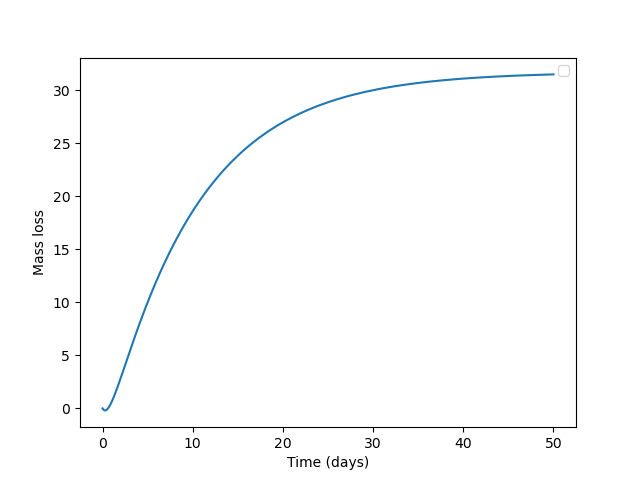
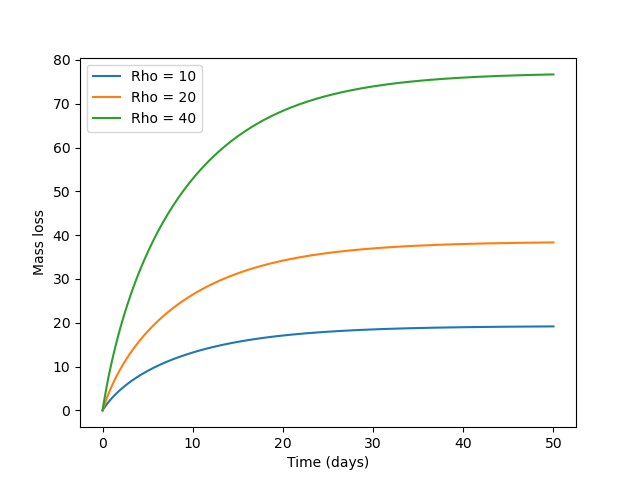
final

diff --git a/partC/partC3D.py b/partC/partC3D.py
@@ -3,19 +3,18 @@ set_log_active(False)
 import numpy as np
 import matplotlib.pyplot as plt
 
-mesh=Mesh("3dmesh/sphere2.xml")
+mesh=Mesh("3dmesh/sphere1.xml")
 V = FunctionSpace(mesh,"CG",1)
 
 #Data
-T = 20
+T = 50
 h = mesh.hmin()
 dt = h
-dts = np.linspace(0,T,int(np.round(T/dt,0))+1)
+dts = np.linspace(0,T,int(np.round(T/dt,0))+2)
 alpha = 0.01
-R = 0.445
-r = 0.12677
+R = 0.5
+r = 0.2
 rho = [10, 20, 40]
-rho = 32.6
 
 # Mass loss figure
 fig, ax = plt.subplots(1,1)
@@ -29,10 +28,10 @@ class DirichletBoundary(SubDomain):
 g = Constant(0.0)
 bc = DirichletBC(V,g,DirichletBoundary())
 
-for j in range(1): #range(len(rho)):
+for j in range(len(rho)):
 
 	#Initial condition
-	indata = Expression("pow((R-sqrt(pow(x[0],2)+pow(x[1],2))),2)+pow(x[2],2) <= r ? rho :0", rho=rho, R=R, r=r, degree=3)
+	indata = Expression("pow((R-sqrt(pow(x[0],2)+pow(x[1],2))),2)+pow(x[2],2) <= r ? rho :0", rho=rho[j], R=R, r=r, degree=3)
 	u0 = Function(V)
 	u0 = interpolate(indata,V)
 
@@ -51,7 +50,7 @@ for j in range(1): #range(len(rho)):
 	u = Function(V)
 
 	# create file
-	#file = File("partC3D/solution.pvd")
+	file = File("partC3D/solution.pvd")
 
 	#Set initial condition
 	u.assign(u0)
@@ -78,7 +77,7 @@ for j in range(1): #range(len(rho)):
 		mass[i] = assemble(M)
 		t += dt
 
-	ax.plot(dts,mass) #label=labels[j])
+	ax.plot(dts,mass, label=labels[j])
 	ax.set_ylabel('Mass loss')
 	ax.set_xlabel('Time (days)')
 

diff --git a/partC/partC3.py b/partC/partC3.py
@@ -76,6 +76,9 @@ def func(data):
 import scipy.optimize as optimize
 from scipy.optimize import minimize
 
-data = [20,0.5,0.1]
+data = [32,0.45,0.13]
 res = minimize(func, data, method = 'nelder-mead' , options = {'xtol':1e-3 , 'disp': True})
 print(res)
+
+with open('optimized.txt', 'w') as f:
+    f.write(str(res))
